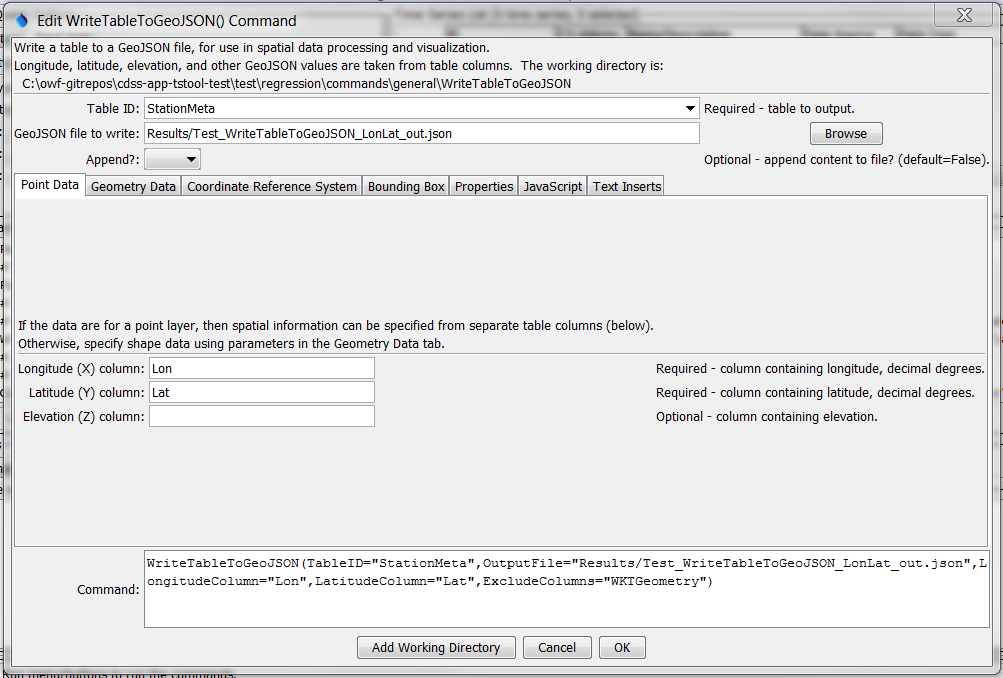
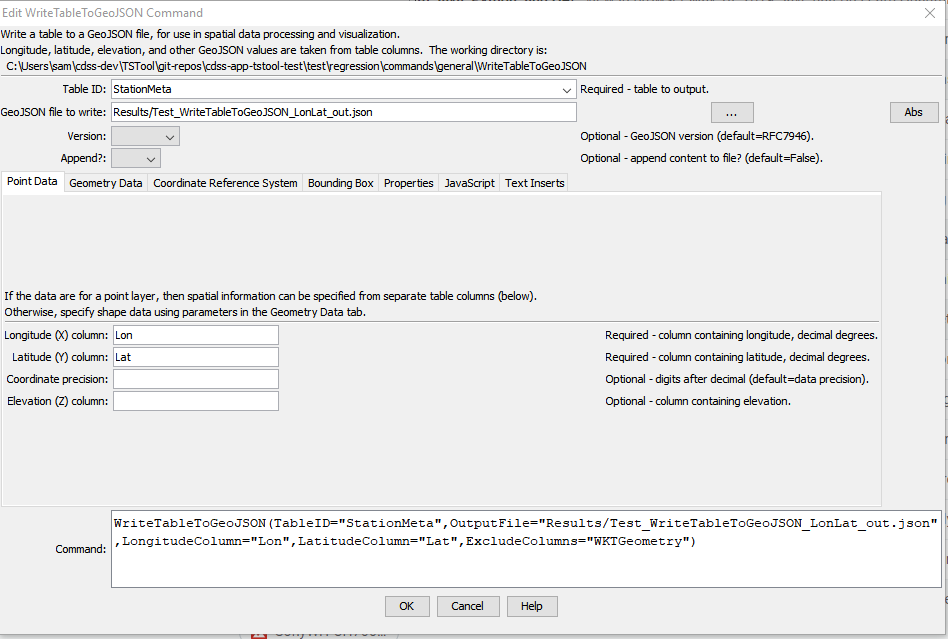
Update WriteTableToGeoJSON and WriteTimeSeriesToGeoJSON, issue #17
The commands now follow RFC7946 specification and
provide CoordinatePrecision parameter for precision.

Changed region(s): [[0.0, 0.0, 1.0, 1.0]]

diff --git a/mkdocs-project/docs/command-ref/WriteTableToGeoJSON/WriteTableToGeoJSON.md b/mkdocs-project/docs/command-ref/WriteTableToGeoJSON/WriteTableToGeoJSON.md
@@ -14,7 +14,8 @@
 The `WriteTableToGeoJSON` command writes a table to a GeoJSON file,
 which is a spatial data format that can be viewed in geographic information system (GIS) software and other visualization tools.  See:
 
-* [GeoJSON Specification](http://geojson.org/geojson-spec.html)
+* [GeoJSON RFC7946 Specification](https://tools.ietf.org/html/rfc7946) - use `Version=RFC7946` parameter, which is the default if not specified
+* [GeoJSON 1.0 Specification](http://geojson.org/geojson-spec.html) - use `Version=1.0` parameter
 
 The table must include columns for longitude and latitude or a column containing Well Known Text (WKT) geometry strings.  See:
 
@@ -94,16 +95,18 @@ WriteTableToGeoJSON(Parameter="Value",...)
 Command Parameters
 </p>**
 
-|**Parameter**&nbsp;&nbsp;&nbsp;&nbsp;&nbsp;&nbsp;&nbsp;&nbsp;&nbsp;&nbsp;&nbsp;&nbsp;&nbsp;&nbsp;&nbsp;&nbsp;&nbsp;&nbsp;&nbsp;&nbsp;&nbsp;|**Description**|**Default**&nbsp;&nbsp;&nbsp;&nbsp;&nbsp;&nbsp;&nbsp;&nbsp;&nbsp;&nbsp;&nbsp;&nbsp;&nbsp;&nbsp;&nbsp;&nbsp;&nbsp;&nbsp;&nbsp;&nbsp;&nbsp;&nbsp;&nbsp;&nbsp;&nbsp;&nbsp;&nbsp;&nbsp;&nbsp;&nbsp;&nbsp;&nbsp;&nbsp;&nbsp;&nbsp;|
+|**Parameter**&nbsp;&nbsp;&nbsp;&nbsp;&nbsp;&nbsp;&nbsp;&nbsp;&nbsp;&nbsp;&nbsp;&nbsp;&nbsp;&nbsp;&nbsp;&nbsp;&nbsp;&nbsp;&nbsp;&nbsp;&nbsp;&nbsp;&nbsp;|**Description**|**Default**&nbsp;&nbsp;&nbsp;&nbsp;&nbsp;&nbsp;&nbsp;&nbsp;&nbsp;&nbsp;&nbsp;&nbsp;&nbsp;&nbsp;&nbsp;&nbsp;&nbsp;&nbsp;&nbsp;&nbsp;&nbsp;&nbsp;&nbsp;&nbsp;&nbsp;&nbsp;&nbsp;&nbsp;&nbsp;&nbsp;&nbsp;&nbsp;&nbsp;&nbsp;&nbsp;|
 |--------------|-----------------|-----------------|
 |`TableID`|Identifier for the table to write.  Can be specified using `${Property}` notation.|None – must be specified.|
 |`OutputFile`|The name of the GeoJSON file to write, as an absolute path or relative to the command file location.  Can be specified using `${Property}` notation.|None – must be specified.|
+|`Version`|GeoJSON version to write:<ul><li>`RFC7946` - the current specification</li><li>`1.0` - original specification (obsolete)</li></ul>|`RFC4976`|
 |`Append`|Indicate whether to append the GeoJSON content to the output file, `True` or `False`.|`False`|
 |`LongitudeColumn`|The name of the table column that contains longitude. Can be specified using `${Property}` notation.|None – must be specified.|
 |`LatitudeColumn`|The name of the table column that contains latitude.  Can be specified using `${Property}` notation.|None – must be specified.|
+|`CoordinatePrecision`|The number of digits to output after the decimal, for coordinates and bounding box.|Precision is based on each data value.|
 |`ElevationColumn`|The name of the table column that contains elevation.  Can be specified using `${Property}` notation.|Elevation is omitted.|
 |`WKTGeometryColumn`|The name of the table column that contains Well Known Text (WKT) geometry strings.  Can be specified using `${Property}` notation.||
-|`CRSText`|Full text to define the coordinate reference system using the `crs` GeoJSON property.  The text will be inserted at the top level of the GeoJSON.  This should be used when other than geographic coordinates are used.  For more information, see:<br><ul><li>[GeoJSON CRS specification](http://geojson.org/geojson-spec.html#named-crs)</li><li>[Spatial Reference System](https://en.wikipedia.org/wiki/Spatial_reference_system)</li><li>[spatialreference.org](http://spatialreference.org/)|No `crs` property is included which means that GeoJSON defaults to `EPSG:4326` (geographic).|
+|`CRSText`|**Only used if `Version` is `1.0`** - Full text to define the coordinate reference system using the `crs` GeoJSON property.  The text will be inserted at the top level of the GeoJSON.  This should be used when other than geographic coordinates are used.  For more information, see:<br><ul><li>[GeoJSON CRS specification](http://geojson.org/geojson-spec.html#named-crs)</li><li>[Spatial Reference System](https://en.wikipedia.org/wiki/Spatial_reference_system)</li><li>[spatialreference.org](http://spatialreference.org/)|No `crs` property is included which means that GeoJSON defaults to `WGS84` (Version 1.0 default was `EPSG:4326`, geographic).|
 |`IncludeBBox`|Indicate whether to include bbox GeoJSON property for the full layer.|`True`|
 |`IncludeFeatureBBox`|Indicate whether to include `bbox` GeoJSON property for each feature.|`True`|
 |`IncludeColumns`|List of comma-separated table column names to include as feature properties.  Can be specified using ${Property} notation.|Include all columns.|

diff --git a/mkdocs-project/docs/command-ref/WriteTimeSeriesToGeoJSON/WriteTimeSeriesToGeoJSON.md b/mkdocs-project/docs/command-ref/WriteTimeSeriesToGeoJSON/WriteTimeSeriesToGeoJSON.md
@@ -14,7 +14,7 @@
 The `WriteTimeSeriesToGeoJSON` command writes time series to a GeoJSON file,
 which is a spatial data format that can be viewed in geographic information system (GIS) software and other visualization tools.  See:
 
-* [GeoJSON specification](http://geojson.org/geojson-spec.html)
+* [GeoJSON RFC7946 Specification](https://tools.ietf.org/html/rfc7946)
 
 The time series must have properties for longitude and latitude or Well Known Text (WKT) geometry string.  See:
 
@@ -86,6 +86,7 @@ Command Parameters
 |`Append`|Indicate whether to append the GeoJSON content to the output file, `True` or `False`.|`False`|
 |`LongitudeProperty`|The name of the time series property containing the longitude to use for the GeoJSON.  Can be specified using `${Property}`.|Required unless WKT geometry is specified.|
 |`LatitudeProperty`|The name of the time series property containing the latitude to use for the GeoJSON.  Can be specified using `${Property}`.|Required unless WKT geometry is specified.|
+|`CoordinatePrecision`|The number of digits to output after the decimal, for coordinates and bounding box.|Precision is based on each data value.|
 |`ElevationProperty`|The name of the time series property containing the elevation to use for the GeoJSON.  Can be specified using `${Property}`.|Omitted|
 |`WKTGeometryProperty`|The name of the time series property that contains Well Known Text (WKT) geometry strings.  Can be specified using `${Property}`.|Will use point data properties|
 |`IncludeColumns`|List of comma-separated time series property names to include as feature properties, using * for wildcard.  Can be specified using `${Property}`.|Include all columns.|
@@ -103,4 +104,5 @@ See the [automated tests](https://github.com/OpenCDSS/cdss-app-tstool-test/tree/
 ## See Also ##
 
 * [`SelectTimeSeries`](../SelectTimeSeries/SelectTimeSeries.md) command
+* [`WriteTableToGeoJSON`](../WriteTableToGeoJSON/WriteTableToGeoJSON.md) command
 * [`WriteTimeSeriesToKml`](../WriteTimeSeriesToKml/WriteTimeSeriesToKml.md) command

diff --git a/mkdocs-project/docs/appendix-release-notes/release-notes-13.md b/mkdocs-project/docs/appendix-release-notes/release-notes-13.md
@@ -13,4 +13,12 @@ datastores because the services are no longer available from the State of Colora
 in `*.xop` time series files.
 * ![change](change.png) [13.00.00] Enhance the
 [`ManipulateTableString`](../command-ref/ManipulateTableString/ManipulateTableString.md) command
-to allow `$` in replace and remove by using `\$'.  The `$` alone represents end of line.
+to allow `$` for replace and remove actions using `\$'.
+The `$` without escape alone represents end of line, as previously implemented.
+* ![change](change.png) [13.00.00] Enhance the
+[`WriteTableToGeoJSON`](../command-ref/WriteTableToGeoJSON/WriteTableToGeoJSON.md) command
+to specify the GeoJSON version (default is RFC7946) via new `Version` parameter.
+Also add the `CoordinatePrecision` parameter to control precision on coordinates and bounding box.
+* ![change](change.png) [13.00.00] Enhance the
+[`WriteTimeSeriesToGeoJSON`](../command-ref/WriteTimeSeriesToGeoJSON/WriteTimeSeriesToGeoJSON.md) command
+by adding the `CoordinatePrecision` parameter to control precision on coordinates and bounding box.
